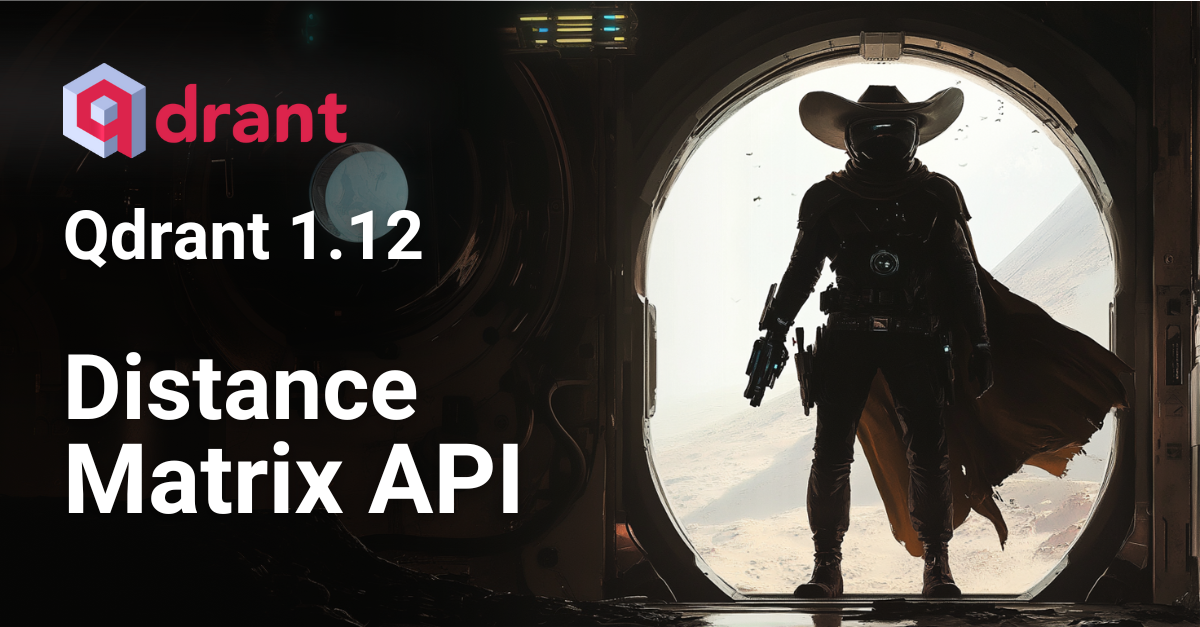
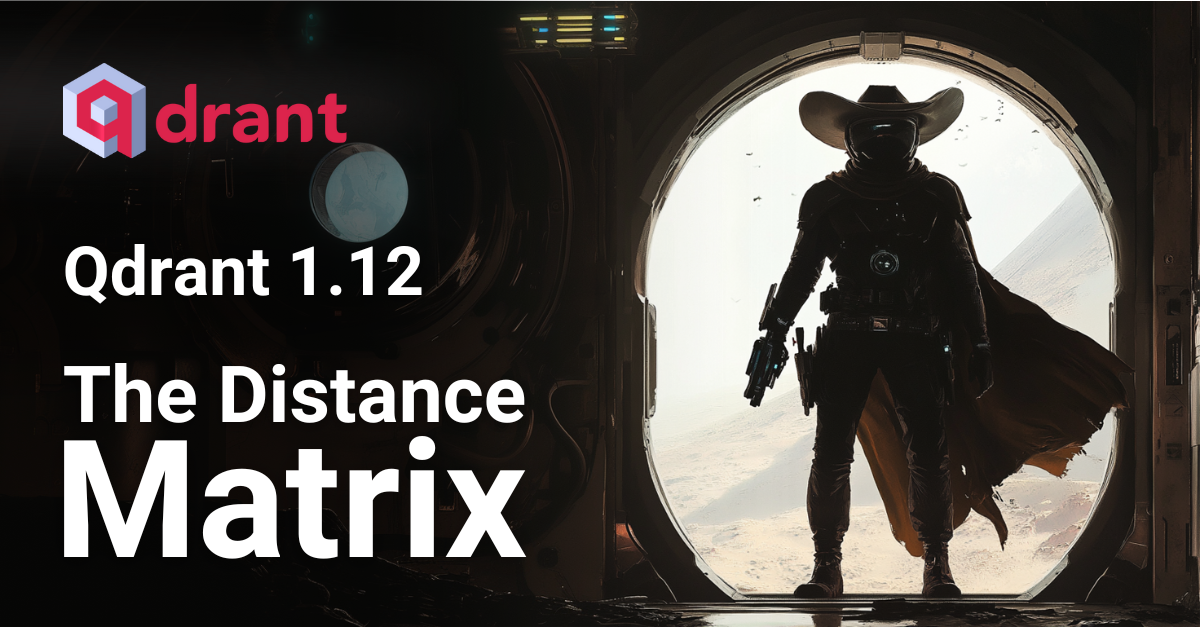
add the rest

Changed region(s): [[0.0308, 0.5455, 0.4625, 0.9091], [0.0308, 0.3333, 0.37, 0.4848]]

diff --git a/qdrant-landing/content/blog/qdrant-1.12.x.md b/qdrant-landing/content/blog/qdrant-1.12.x.md
@@ -1,5 +1,5 @@
 ---
-title: "Qdrant 1.12 - Enter the Matrix: Clustering and Data Visualization Options"
+title: "Qdrant 1.12 - Distance Matrix, Facet Counting & On-Disk Indexing"
 draft: false
 short_description: "On-Disk Text & Geo Index. Distance Matrix API. Facet API for Cardinality."
 description: "Uncover insights with the Distance Matrix API, dynamically filter via Facet API, and offload additional payload to disk." 
@@ -17,19 +17,31 @@ tags:
   - faceting
   - facet api
 ---
+[**Qdrant 1.12.0 is out!**](https://github.com/qdrant/qdrant/releases/tag/v1.12.0). Let's take a look at major features and a few minor additions:
 
-## Distance Matrix API for Data Exploration
+**Distance Matrix API:** Efficiently calculate pairwise distances between vectors.</br>
+**Faceting API:** Dynamically aggregate and count unique values in specific fields.</br>
+**Text Index on_disk:** Reduce memory usage by storing text indexing data on disk.</br>
 
-In data exploration, tasks like clustering and dimensionality reduction rely on calculating distances between data points. 
-With the **Distance Matrix API**, you can compute a *sparse matrix of distances* that is optimized for large datasets.
+**GUI Data Exploration** Visually navigate your dataset and analyze vector relationships.</br>
+**Geo Index on_disk:** Offload indexed geographic data on disk for memory efficiency.
 
-Imagine a large retail company with 10,000 customers, aiming to segment them based on purchasing behavior. 
-Each customer is stored as a vector in Qdrant, and the company wants to identify customer segments and visualize their relationships based on purchase similarities.
+## Distance Matrix API for Data Insights
+![distance-matrix-api](/blog/qdrant-1.12.x/distance-matrix-api.png)
 
-Without a dedicated API, clustering these customers would require 10,000 separate batch search requests (plus filter). 
-This process is inefficient, costly, and time-consuming.
+> **Qdrant** is a similarity search engine. Our mission is to give you the tools to **discover and understand connections** between vast amounts of semantically relevant data
 
-Here is how you can structure a request to retrieve a sparse matrix that comparing 10 random points:
+**Distance Matrix API** is here to lay the groundwork for such tools.
+
+In data exploration, tasks like [**clustering**](https://en.wikipedia.org/wiki/DBSCAN) and [**dimensionality reduction**](https://en.wikipedia.org/wiki/Dimensionality_reduction) rely on calculating distances between data points. 
+
+**Use Case:** A retail company with 10,000 customers wants to segment them by purchasing behavior. Each customer is stored as a vector in Qdrant, but without a dedicated API, clustering would need 10,000 separate batch requests, making the process inefficient and costly.
+
+You can use this API to compute a **sparse matrix of distances** that is optimized for large datasets. Then, you can filter through the retrieved data to find the exact vector relationships that matter.
+
+### Configuration - Pairs
+
+Use the `pairs` endpoint to compare 10 random point pairs from your dataset:
 
 ```http
 POST /collections/{collection_name}/points/search/matrix/pairs
@@ -37,10 +49,10 @@ POST /collections/{collection_name}/points/search/matrix/pairs
     "sample": 10,
     "limit": 2
 }
-- `sample` will retrieve a random sample of 10 points to compare 
-- `limit` is the number of connections between points to consider 
+```
+Configuring `sample` will retrieve a random group of 10 points to compare. The `limit` is the number of semantic connections between points to consider.
 
-This single request will list a sparse matrix of distances between the closest points. 
+Qdrant will list a sparse matrix of distances **between the closest pairs**:
 
 ```http
 {
@@ -66,7 +78,10 @@ This single request will list a sparse matrix of distances between the closest p
     }
 }
 ```
-The `offsets` endpoint shows the distances in 
+
+### Configuration - Offsets
+
+The `offsets` endpoint is another method of calculating the distance between points:
 
 ```http
 POST /collections/{collection_name}/points/search/matrix/offsets
@@ -74,8 +89,11 @@ POST /collections/{collection_name}/points/search/matrix/offsets
     "sample": 10,
     "limit": 2
 }
-- `sample` will retrieve a random sample of 10 points to compare 
-- `limit` is the number of connections between points to consider 
+```
+
+Qdrant will return a compact representation of the distances between points in the **form of row and column offsets**. 
+
+Two arrays, `offsets_row` and `offsets_col`, represent the positions of non-zero distance values in the matrix. Each entry in these arrays corresponds to a pair of points with a calculated distance.
 
 ```http
 {
@@ -91,24 +109,43 @@ POST /collections/{collection_name}/points/search/matrix/offsets
     }
 }
 ```
-
+*To learn more about the distance matrix, read [**The Distance Matrix documentation**](https://qdrant.tech/).*
 
 ## Distance Matrix API in the Graph UI
 
-INSERT YOUTUBE VIDEO
+We are adding more visualization options to the [**Graph Exploration Tool**](https://qdrant.tech/blog/qdrant-1.11.x/#web-ui-graph-exploration-tool), introduced in v.1.10.
+
+You can now leverage the **Distance Matrix API** from within this tool for a **clearer picture** of your data and its relationships.
+
+**Example:** You can retrieve 500 `sample` points, with a `limit` of 5 connections per vector and a `tree` visualization:
+
+```json
+{
+  "limit": 5,
+  "sample": 300,
+  "tree": true
+}
+```
+**The new graphing method is cleaner and can reveals significant relationships in data:**
+
+![distance-matrix](/blog/qdrant-1.12.x/distance-matrix.png)
+
+*To learn more about the Web UI Dashboard, read the [**Interfaces documentation**](/documentation/interfaces/web-ui/).*
 
 ## Facet API for Payload Field Cardinality
 
-In modern applications like e-commerce, users often rely on filters, such as brand or location, to refine search results. 
+![facet-api](/blog/qdrant-1.12.x/facet-api.png)
 
-Facet API can efficiently count and aggregate values for a specific payload field in your data. 
-You can use it to retrieve unique values for a field, along with the number of points that contain each value.
-This functionality is similar to `GROUP BY` with `COUNT(*)` in SQL databases.
+In modern applications like e-commerce, users often rely on [**filters**](/articles/vector-search-filtering/), such as **brand** or **color**, to refine search results. The **Facet API** is designed to help users understand the distribution of values in a dataset. 
 
-Facet counting can only be applied to fields that support `match` conditions, such as fields with a keyword index. 
+The `facet` endpoint can efficiently count and aggregate values for a specific [**payload field**](/documentation/concepts/payload/) in your data. 
 
-The feature is designed to help with understanding the distribution of values in a dataset. 
-For example, in an e-commerce setting, you can easily retrieve the number of products by size or brand.
+You can use it to retrieve unique values for a field, along with the number of points that contain each value. This functionality is similar to `GROUP BY` with `COUNT(*)` in SQL databases.
+
+> **Note:** Facet counting can only be applied to fields that support `match` conditions, such as fields with a keyword index. 
+
+### Configuration 
+
 Here’s a sample query using the REST API to facet on the `size` field, filtered by products where the `color` is red:
 
 ```http
@@ -123,7 +160,7 @@ POST /collections/{collection_name}/facet
     }
 }
 ```
-This returns counts for each unique value in the `size` field, filtered by `color` = `red`. For example:
+This returns counts for each unique value in the `size` field, filtered by `color` = `red`:
 
 ```json
 {
@@ -141,8 +178,9 @@ This returns counts for each unique value in the `size` field, filtered by `colo
 ```
 The results are sorted by count in descending order and only values with non-zero counts are returned.
 
-By default, facet counting runs an approximate filter. 
-If you need a precise count, you can enable the `exact` parameter:
+### Configuration - Precise Facet
+
+By default, facet counting runs an approximate filter. If you need a precise count, you can enable the `exact` parameter:
 
 ```http
 POST /collections/{collection_name}/facet
@@ -153,11 +191,17 @@ POST /collections/{collection_name}/facet
 ```
 This feature provides flexibility between performance and precision, depending on the needs of your application.
 
-## Additional on_disk Support for Payload Indexes
+*To learn more about faceting, read the [**Facet API documentation**](https://qdrant.tech/).*
 
-**Text Index:** Qdrant text indexing involves tokenizing text into smaller units (tokens) based on user-defined settings (e.g., tokenizer type, token length). These tokens are stored in an inverted index for fast text searches. With on-disk text indexing, the inverted index is stored on disk, reducing memory usage.
+## Text Index on_disk Support 
+![text-index-disk](/blog/qdrant-1.12.x/text-index-disk.png)
 
-To configure an on-disk text index, simply add "on_disk": true when creating the index:
+[**Qdrant text indexing**](/documentation/concepts/indexing/#full-text-index) involves tokenizing text into smaller units (tokens) based on user-defined settings (e.g., tokenizer type, token length). These tokens are stored in an inverted index for fast text searches. 
+
+> With `on_disk` text indexing, the inverted index is stored on disk, reducing memory usage.
+
+### Configuration
+Just like with other indexes, simply add `on_disk`: true when creating the index:
 
 ```http
 PUT /collections/{collection_name}/index
@@ -174,13 +218,19 @@ PUT /collections/{collection_name}/index
 }
 ```
 
-**Geo Index:** Gor large-scale geographic datasets where storing all indexes in memory is impractical, geo indexing in Qdrant allows efficient filtering of points based on geographic coordinates. 
+*To learn more about indexes, read the [**Indexing documentation**](/documentation/concepts/indexing/).*
 
-With on-disk geo indexing, the index is written to disk instead of residing in memory, making it possible to handle large datasets without exhausting system memory. 
+## Geo Index on_disk Support 
 
-This can be crucial when dealing with millions of geo points that don’t require real-time access.
+For [**large-scale geographic datasets**](/documentation/concepts/payload/#geo) where storing all indexes in memory is impractical, **geo indexing** allows efficient filtering of points based on geographic coordinates. 
 
-To enable an on-disk geo index, you modify the index schema for the geographic field by setting the "on_disk": true flag. Here’s an example configuration:
+With `on_disk` geo indexing, the index is written to disk instead of residing in memory, making it possible to handle large datasets without exhausting system memory. 
+
+> This can be crucial when dealing with millions of geo points that don’t require real-time access.
+
+### Configuration
+
+To enable this feature, modify the index schema for the geographic field by setting the `on_disk: true` flag. 
 
 ```http
 PUT /collections/{collection_name}/index
@@ -195,6 +245,18 @@ PUT /collections/{collection_name}/index
 
 ### Performance Considerations
 
-- Cold Query Latency: On-disk indexes require I/O to load index segments, introducing slight latency on first access. Subsequent queries benefit from disk caching.
-- Hot vs. Cold Indexes: Fields frequently queried should stay in memory for faster performance, while on-disk indexes are better for large, infrequently queried fields.
-- Memory vs. Disk Trade-offs: Users can manage memory by deciding which fields to store on disk.
+- **Cold Query Latency:** On-disk indexes require I/O to load index segments, introducing slight latency on first access. Subsequent queries will benefit from disk caching.
+- **Hot vs. Cold Indexes:** Fields frequently queried should stay in memory for faster performance, and on-disk indexes are better for large, infrequently queried fields.
+- **Memory vs. Disk Trade-offs:** Users can manage memory by deciding which fields to store on disk.
+
+![geo-index-disk](/blog/qdrant-1.12.x/geo-index-disk.png)
+
+> To learn how to get the best performance from Qdrant, read the [**Optimization Guide**](/documentation/guides/optimize/).
+
+## Just the Beginning
+
+The easiest way to reach that **Hello World** moment is to [**try filtering in a live cluster**](/documentation/quickstart-cloud/). Our **interactive tutorial** will show you how to create a cluster, add data and try some filtering clauses. 
+
+**All of the new features from version 1.12 can be tested in the Web UI:**
+
+![qdrant-filtering-tutorial](/articles_data/vector-search-filtering/qdrant-filtering-tutorial.png)
